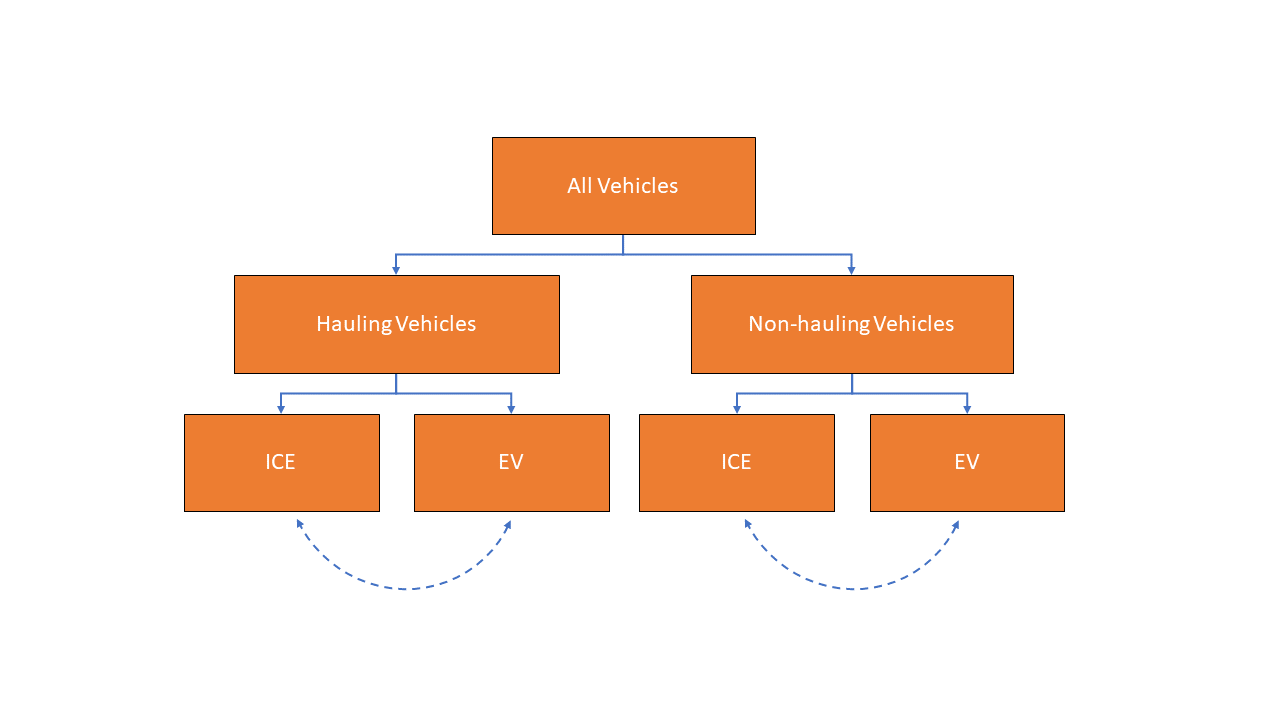
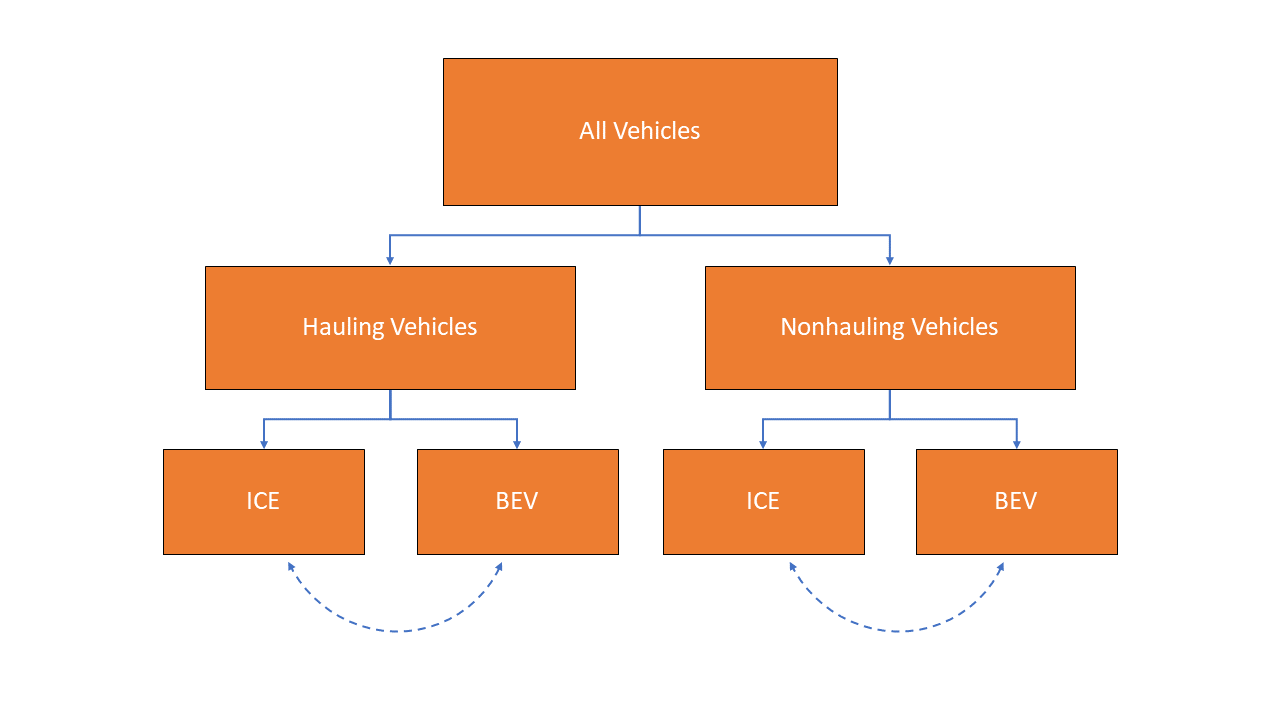
consumer module formatting and more

Changed region(s): [[0.125, 0.0611, 0.875, 0.825], [0.2188, 0.4278, 0.375, 0.4889]]

diff --git a/doc/source/archalgo.rst b/doc/source/archalgo.rst
@@ -166,68 +166,93 @@ Market Class Definitions
 The Consumer Module estimates new vehicle sales at an aggregate level, with vehicles separated into high level market classes. These market classes are the fundamental unit of analysis within the Consumer Module. The choice of market classes are tied to the model used to estimate the shares of new vehicles sold, and are dependent on the attributes available in the input data files. For example, vehicles can be identified by their fuel type (electric, gas, diesel, etc.), by their expected use (primarily for goods or passenger transport), or by their geographic description (urban vs. rural).
 Users can define market classes; in doing so, the user must ensure that all other inputs and user-defined submodules (for example, with respect to stock and use estimation) within the Consumer Module are defined consistently. The designation of market classes can be used to account for expected market heterogeneity in terms of purchasing behavior or vehicle use based on specific vehicle attributes. In addition, the user can categorize market classes as 'responsive,' where the share of total vehicles attributed to those market classes change in response to user defined endogenous inputs (like relative costs), or 'nonresponsive,' where the share of total vehicles attributed to those market classes does not change with the policy being analyzed.
 
-Within the demo analysis, vehicles are separated into four market classes depending on whether they are categorized as hauling (primarily meant for transporting goods or towing, as a body-on-frame vehicle would be expected to do) or non-hauling (primarily meant for passenger transportation, as a unibody vehicle might do), and their fuel type (battery electric vehicle (BEV) or internal combustion engine vehicles (ICE)). The hauling/nonhauling market class is defined as nonresponsive. The share of vehicles defined as hauling or non-hauling, regardless of the fuel type, depends on analysis context inputs, and is unaffected by model results. The BEV/ICE market class is defined as responsive, and the share of vehicles in that market class is estimated within the Consumer Module.
+.. admonition:: Demo Example
 
-Before the Consumer Module can estimate sales and or shares response, all vehicles must be categorized into their market classes. For ease of explanation, the process can be thought of as creating branches of a tree. Using the demo analysis market classes, where hauling/nonhauling is categorized as nonresponsive, vehicles are first separated into the appropriate hauling and nonhauling class. The Consumer Module then uses interim inputs from the Producer Module to determine the share of vehicles in the responsive category, BEV/ICE. These steps are identified by the solid lines in the figure below. During Phase 1, if the share of BEVs that consumers will accept under the given vehicle attributes, including the relative price of ICE and BEV, does not converge with the share that Producer Module estimates, the iterative process continues. Given different interim inputs, for example where the relative price of ICE and BEVs change during iteration, the Consumer Module will redistribute vehicles into the BEV and ICE classes. However, the relative share of hauling and nonhauling vehicles will not change. This is represented by the dashed lines between each set of BEV/ICE class. Note that the dashed lines travel within the hauling class and within the nonhauling class, but do not travel across them.
+    Within the demo analysis, vehicles are separated into four market classes depending on whether they are categorized as hauling (primarily meant for transporting goods or towing, as a body-on-frame vehicle would be expected to do) or non-hauling (primarily meant for passenger transportation, as a unibody vehicle might do), and their fuel type (battery electric vehicle (BEV) or internal combustion engine vehicles (ICE)). The hauling/nonhauling market class is defined as nonresponsive. The share of vehicles defined as hauling or non-hauling, regardless of the fuel type, depends on analysis context inputs, and is unaffected by model results. The BEV/ICE market class is defined as responsive, and the share of vehicles in that market class is estimated within the Consumer Module.
 
-:numref:`mo_label_mktree` Illustration of the Market Class Structure in the Demo Analysis.
+Before the Consumer Module can estimate sales and or shares response, all vehicles must be categorized into their market classes. For ease of explanation, the process can be thought of as creating branches of a tree. Vehicles are categorized into nonresponsive market classes, and within those nonresponsive market classes, vehicles are allocated to their responsive market classes based on the attributes of the vehicles input from the Producer Module and the user defined method of categorizing responsive market classes. During the initial phase of iteration with the Producer Module, the share of vehicles allocated to the nonresponsive market classes remains consistent, however shares of vehicles allocated to the responsive market classes may change.
 
-.. _mo_label_mktree:
-.. figure:: _static/mo_figures/market_class_tree.png
-    :align: center
+.. admonition:: Demo Example
 
-.. todo: [[make text size in figure larger]]
+    The figure below illustrates an example of a market class tree using the demo analysis market classes as an example. Hauling/nonhauling is categorized as nonresponsive, and vehicles separated into the appropriate hauling and nonhauling class using the projection of hauling/nonhauling shares from the Analysis Context inputs. The interim inputs from the Producer Module, namely relative vehicle costs, are used to determine the share of vehicles in the responsive category, BEV/ICE, as described in examples below. These initial categorization steps are identified by the solid lines in the figure below. During Phase 1, if the share of BEVs that consumers will accept given the vehicle attributes does not converge with the share that the Producer Module estimates, the iterative process continues. The demanded BEV share is passed back to the Producer Module, which will return a new set of interim inputs, including relative costs. Given the updated interim inputs, the Consumer Module will redistribute vehicles into the BEV and ICE classes. However, the relative share of hauling and nonhauling vehicles will not change. This possible redistribution between responsive market classes is represented by the dashed lines between each set of BEV/ICE classes. Note that the dashed lines travel within the hauling class and within the nonhauling class, but do not travel across them.
+
+    :numref:`mo_label_mktree` Illustration of the Market Class Structure in the Demo Analysis.
+
+    .. _mo_label_mktree:
+    .. figure:: _static/mo_figures/market_class_tree.png
+        :align: center
+
 
 Phase 1: New Vehicle Sales
 --------------------------
-The Consumer Module estimates both total new vehicle sales, as well as the demanded market shares of those new vehicles.
+During the first, iterative, phase of the Consumer Module, the Producer Module and Consumer Module converge on an estimate of total new vehicle sales, as well as the demanded market shares of those new vehicles. An initial set of vehicles and their attributes, including prices, that meet the policy targets as estimated in the Producer Module are combined with exogenous inputs from the Analysis Context to determine the total volume of new vehicles accepted by consumers, and the market class allocations of those vehicles, under the given conditions. If the sale and shares results estimated within the Consumer Modules are not within a given threshold of the estimates from the Producer Module, iteration between the Modules occurs. The Consumer Module results are sent to the Producer Module to determine the cost to producers to achieve the policy targets as defined with the Policy Module in a way that consumers will accept. Within this first phase of the Consumer Module, there are two main determinations being made; the total sales volume consumers will accept, and the share of vehicles they demand from each defined market class.
 
 **Sales Volumes**
 
 The Consumer Module estimates the total new vehicles sold at the aggregated market class level. The vehicles the Producer Module estimates will be produced, with their relevant attributes, including prices, are sent to the Consumer Module. As vehicles are aggregated into the market classes identified by the user, the Consumer Module determines how many vehicles in each category are demanded, given the Analysis Context assumptions. Many parts of the sales estimates can be defined by the user, including consumer responsiveness to price, what is included in the price consumers take into account, and how much of the cost to producers is passed on to consumers.
 
-The estimate starts with an assumption of sales volumes in the absence of policy. These estimates are an endogenous input from the Analysis Context. An elasticity of demand, defined by the user, is used in conjunction with an assumed change in price to estimate the change in sales expected due to the action alternative under consideration.
+.. sidebar:: Elasticity of Demand
 
-The elasticity of demand is the percent change in quantity of a good demanded for a 1%  change in the price of that good, where the good demanded in the Consumer Module is new light duty vehicles. This value represents how responsive consumers are to a change in price. The value should be negative due to the law of demand; generally, as the price of a good increases, the amount of that good purchased falls. Larger (smaller) negative values are associated with more (less) 'elastic', or larger (smaller), changes in demand for a given change in price.
+    Demand elasticities are generally negative: as the price of a good increases (a positive denominator), the amount of that good purchased falls (a negative numerator). Larger (smaller) negative values are associated with more (less) 'elastic', or larger (smaller), changes in demand for a given change in price.
 
-The price of new vehicles that consumers consider is determined by a user defined consumer generalized cost value. This consumer generalized cost includes factors the user assumes consumers consider in their purchase decision. Some factors that might be included are depreciation, the share of total costs the producers pass onto the consumers, and amount of fuel savings consumers consider in their purchase decision.
+The change in new vehicle sales estimate starts with an assumption of sales volumes in the absence of policy. These estimates are an endogenous input from the Analysis Context. An elasticity of demand, defined by the user, is used in conjunction with the Producer Module's estimated change in price due to an action alternative as defined within the Policy Module to estimate the change in sales expected due to the action alternative under consideration. Demand elasticity is defined as the percent change in the quantity of a good demanded for a 1%  change in the price of that good, where the good demanded in the Consumer Module is new light duty vehicles. This value represents how responsive consumers are to a change in price. The general elasticity equation is:
+
+.. Math::
+    :label: demand elasticity
+
+    \epsilon=\frac{\Delta Q} {\Delta P}
+
+Where :math:`\epsilon` is the elasticity of demand, :math:`\Delta Q` is the change in the quantity demanded, and :math:`\Delta P` is the change in the good's price.
+
+.. admonition:: Demo Example
+
+    In the demo analysis, the elasticity of demand is set to -1. For a 1% change in the consumer generalized cost, the vehicles demanded by consumers will fall by 1%.
+
+In order to estimate the change in sales expected as function of the estimated change in price, this equation is rearranged:
+
+.. Math::
+    :label: change in sales
+
+    \Delta Q=\epsilon * \Delta P
+
+At an aggregate level, the average expected change in the price of new vehicle is multiplied by the defined demand elasticity to get the estimated change in vehicles demanded. This change is added to the projected new vehicle sales under the no-action alternative, from the Analysis Context, to get the total new vehicle sales under the action alternative outlined in the Policy Module.
+
+The price of new vehicles that consumers consider, :math:`\Delta P`, is determined by a user defined consumer generalized cost value. This consumer generalized cost includes factors the user assumes consumers consider in their purchase decision. Some factors that might be included are depreciation, the share of total costs the producers pass onto the consumers, and amount of fuel savings consumers consider in their purchase decision.
 
 The amount of fuel savings considered in the purchase decision is a key factor in determining the net cost used in determining new vehicle sales. This value is represented by the number of years of fuel savings consumers consider when purchasing a new vehicle and can range from 0 through the full lifetime of the vehicle. Using vehicle fuel consumption rates from the Producer Module, projections of fuel costs from the Analysis Context, the assumed user defined VMT schedules as described below, and the assumed user defined vehicle reregistration schedules, also described below, the Consumer Module estimates fuel costs for the set of vehicles under the no-action alternative as well as the action alternative under consideration. The user specified amount of fuel savings is added to the action alternative set of vehicle prices input from the Producer Module to get the set of net costs used in conjunction with the elasticity of demand to estimate the change in vehicle sales.
 
-In the demo analysis, the elasticity of demand is set to -1. For a 1% change in the consumer generalized cost, the vehicles demanded by consumers will fall by 1%.
-The generalized cost value in the Consumer Module demo analysis includes the share of total cost producers pass onto the consumer, fuel cost savings, and depreciation. As part of this cost estimation, the demo analysis assumes 'full cost pass-through'. This means that the full increase in cost that producers are subject to in achieving emission reduction targets is passed on to the consumers. For the amount of fuel consumption considered in the vehicle purchase decision, the demo analysis assumes 2.5 years.
+.. admonition:: Demo Example
+
+    The generalized cost value in the Consumer Module demo analysis includes the share of total cost producers pass onto the consumer, fuel cost savings, and depreciation. As part of this cost estimation, the demo analysis assumes 'full cost pass-through'. This means that the full increase in cost that producers are subject to in achieving emission reduction targets is passed on to the consumers. For the amount of fuel consumption considered in the vehicle purchase decision, the demo analysis assumes 2.5 years.
 
 
 **Sales Shares**
 
 The new vehicles sold are categorized into the user defined market classes using estimates of sales shares. As mentioned above, those market classes can be nonresponsive or responsive to the policy being analyzed. Sales shares for the market classes can be defined in user defined submodules. Nonresponsive vehicle shares may change over time in a prescribed way using exogenous inputs, for example to follow external projections of relative market class shares over time. Users can define responsive market share responses to endogenous inputs fed in from the Producer Module, for example vehicle price. The user defined sales shares submodules must be consistent with related submodules. For example, market classes must be consistent with those defined in the market classes submodule. In addition, inputs used to estimate shares, both endogenous and exogenous must be available.
 
-Within the demo analysis, the hauling/nonhauling market classes are nonresponsive. The sales shares for these classes are defined using exogenous inputs from the Analysis Context. The shares change over time as relative projections of hauling and nonhauling vehicles change over time. However, given a consistent Analysis Context, the shares do not change across different policy alternatives as defined in the Policy Module.
+.. admonition:: Demo Example
 
-The demo analysis defines BEV and ICE market classes as responsive to the policy being analyzed. The method used to estimate BEV shares is based on a logit curve, which has been used in peer reviewed economic literature as far back a 1957 to estimate technology adoption over time. The logit curve estimation is contained within a user defined submodule, which enables users to tailor assumptions in a way that is consistent with other affected submodules within the Consumer Module.
+    Within the demo analysis, the hauling/nonhauling market classes are nonresponsive. The sales shares for these classes are defined using exogenous inputs from the Analysis Context. The shares change over time as relative projections of hauling and nonhauling vehicles change over time. However, given a consistent Analysis Context, the shares do not change across different policy alternatives as defined in the Policy Module.
 
-The logit curve estimates the share of the technology Iin the case of the demo analysis, the technology is BEVs) demanded by consumers, accounting for how quickly (or slowly) new technology is phased into public acceptance, as well as how responsive consumers are to the prices that are input from the Producer Module. The speed of acceptance and price responsiveness are factors the user can identify within the user defined submodule. The logit equation is:
+    The demo analysis defines BEV and ICE market classes as responsive to the policy being analyzed. The method used to estimate BEV shares is based on a logit curve, which has been used in peer reviewed economic literature as far back a 1957 to estimate technology adoption over time. The logit curve estimation is contained within a user defined submodule, which enables users to tailor assumptions in a way that is consistent with other affected submodules within the Consumer Module.
+
+The logit curve estimates the share of the technology (in the case of the demo analysis, the technology is BEVs) demanded by consumers, accounting for how quickly (or slowly) new technology is phased into public acceptance, as well as how responsive consumers are to the prices that are input from the Producer Module. The speed of acceptance and price responsiveness are factors the user can identify within the user defined submodule. The logit equation is:
 
 .. Math::
     :label: logit_curve
 
     s_{i}=\frac{\alpha_{i} * p_{i}^{\gamma}} {\Sigma_{j=1}^{N} \alpha_{j} * p_{j}^{\gamma}}
 
-Where:
-s_{i} is the share of vehicles in market class *i*
+Where :math:`s_{i}` is the share of vehicles in market class *i*, :math:`\alpha_{i}` is the share weight of market class *i* (which determines how quickly new technology is phased in to consumer acceptance) :math:`p_{i}` is the generalized cost of each vehicle in market class *i*, and :math:`\gamma` represents how sensitive the model is to price.
 
-\alpha_{i} is the share weight of market class *i*. This determines how quickly new technology is phased in to consumer acceptance.
+.. admonition:: Demo Example
 
-p_{i} is the generalized cost of each vehicle in market class *i*
-
-\gamma represents how sensitive the model is to price
-
-The share weight and price sensitivity parameters in the demo analysis are informed by the inputs and assumptions to the passenger transportation section of GCAM-USA.
+    The share weight and price sensitivity parameters in the demo analysis are informed by the inputs and assumptions to the passenger transportation section of GCAM-USA.
 
 
 Phase 2: Vehicle Stock and Use
 ------------------------------
-After convergence with respect to the sales of new vehicles is achieved, the Consumer Module estimates total vehicle stock and use, keeping internal consistency between the number of vehicles demanded and the use of those vehicles. Vehicle stock is the total on-road registered fleet, including both new vehicles sales, and the reregistered (used) vehicles. A simple way to determine stock is to estimate the reregistered fleet of vehicles from the total used fleet, and add in the new vehicles sold. The initial stock of vehicles is an exogenous input from the Analysis Context. This set of vehicles includes vehicle counts and attributes, including model year and the features or attributes used to designate market class. The final set of new vehicles sold, and their market classes, is determined as explained above.
+After convergence with respect to the sales of new vehicles is achieved, the Consumer Module estimates total vehicle stock and use, keeping internal consistency between the number of vehicles demanded and the use of those vehicles. Vehicle stock is the total onroad registered fleet, including both new vehicles sales, and the reregistered (used) vehicles. A simple way to determine stock is to estimate the reregistered fleet of vehicles from the total used fleet, and add in the new vehicles sold. The initial stock of vehicles is an exogenous input from the Analysis Context. This set of vehicles includes vehicle counts and attributes, including model year and the features or attributes used to designate market class. The final set of new vehicles sold, and their market classes, is determined as explained above.
 The method of estimating the reregistered fleet is in a user defined submodule. This method can be a static schedule, or depend on other vehicle attributes, like VMT. In the demo analysis, reregistration is estimated using fixed schedules based on vehicle age. For every calendar year, a specified set of vehicles in each model year are assumed to be reregistered for use in the following calendar year. The percent of vehicles reentering the fleet for use in the following year falls as the cohort of vehicles age. If users update the reregistration submodule to follow a different prescribed static rate, or to allow interdependencies between the rate of reregistration and other vehicle attributes, they need to retain consistency between the reregistration submodule and other submodule, for example the submodules estimating new vehicle sales and total VMT.
 
 The method of estimating total VMT for the stock of vehicles is also in a user defined submodule. In the demo analysis, VMT is estimated in a way to maintain total VMT demanded from the Analysis Context (not including rebound driving) across Policy Alternatives. This ensures an overall logical relationship is maintained between consumer demand for mobility and the total availability of vehicles. The VMT demand from the Analysis Context is used to estimate the proportion of VMT attributed to each cohort of vehicles, separated by age and market class. For each calendar year, the total VMT projected in the Analysis Context is allocated across the internally estimated stock of vehicles using this fixed relationship.
